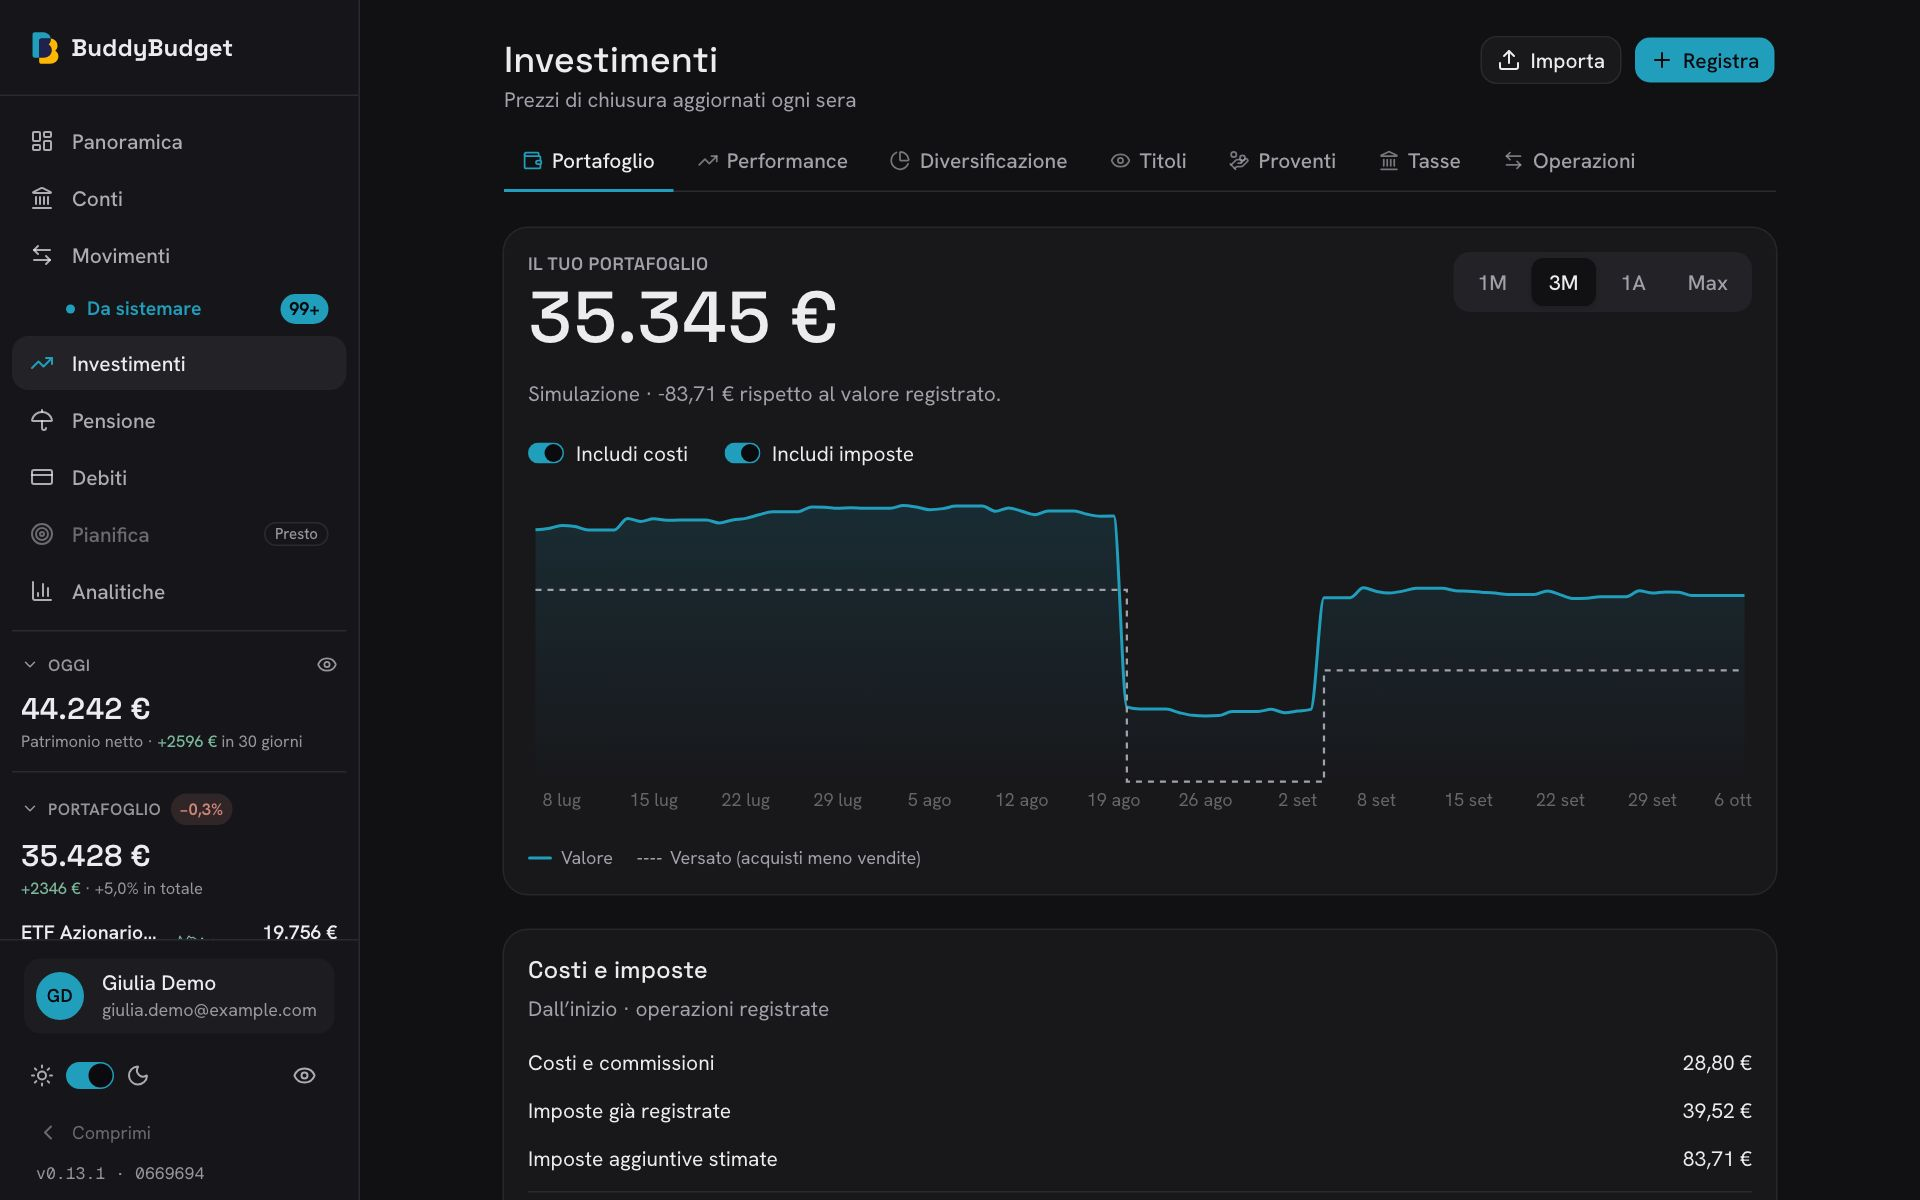
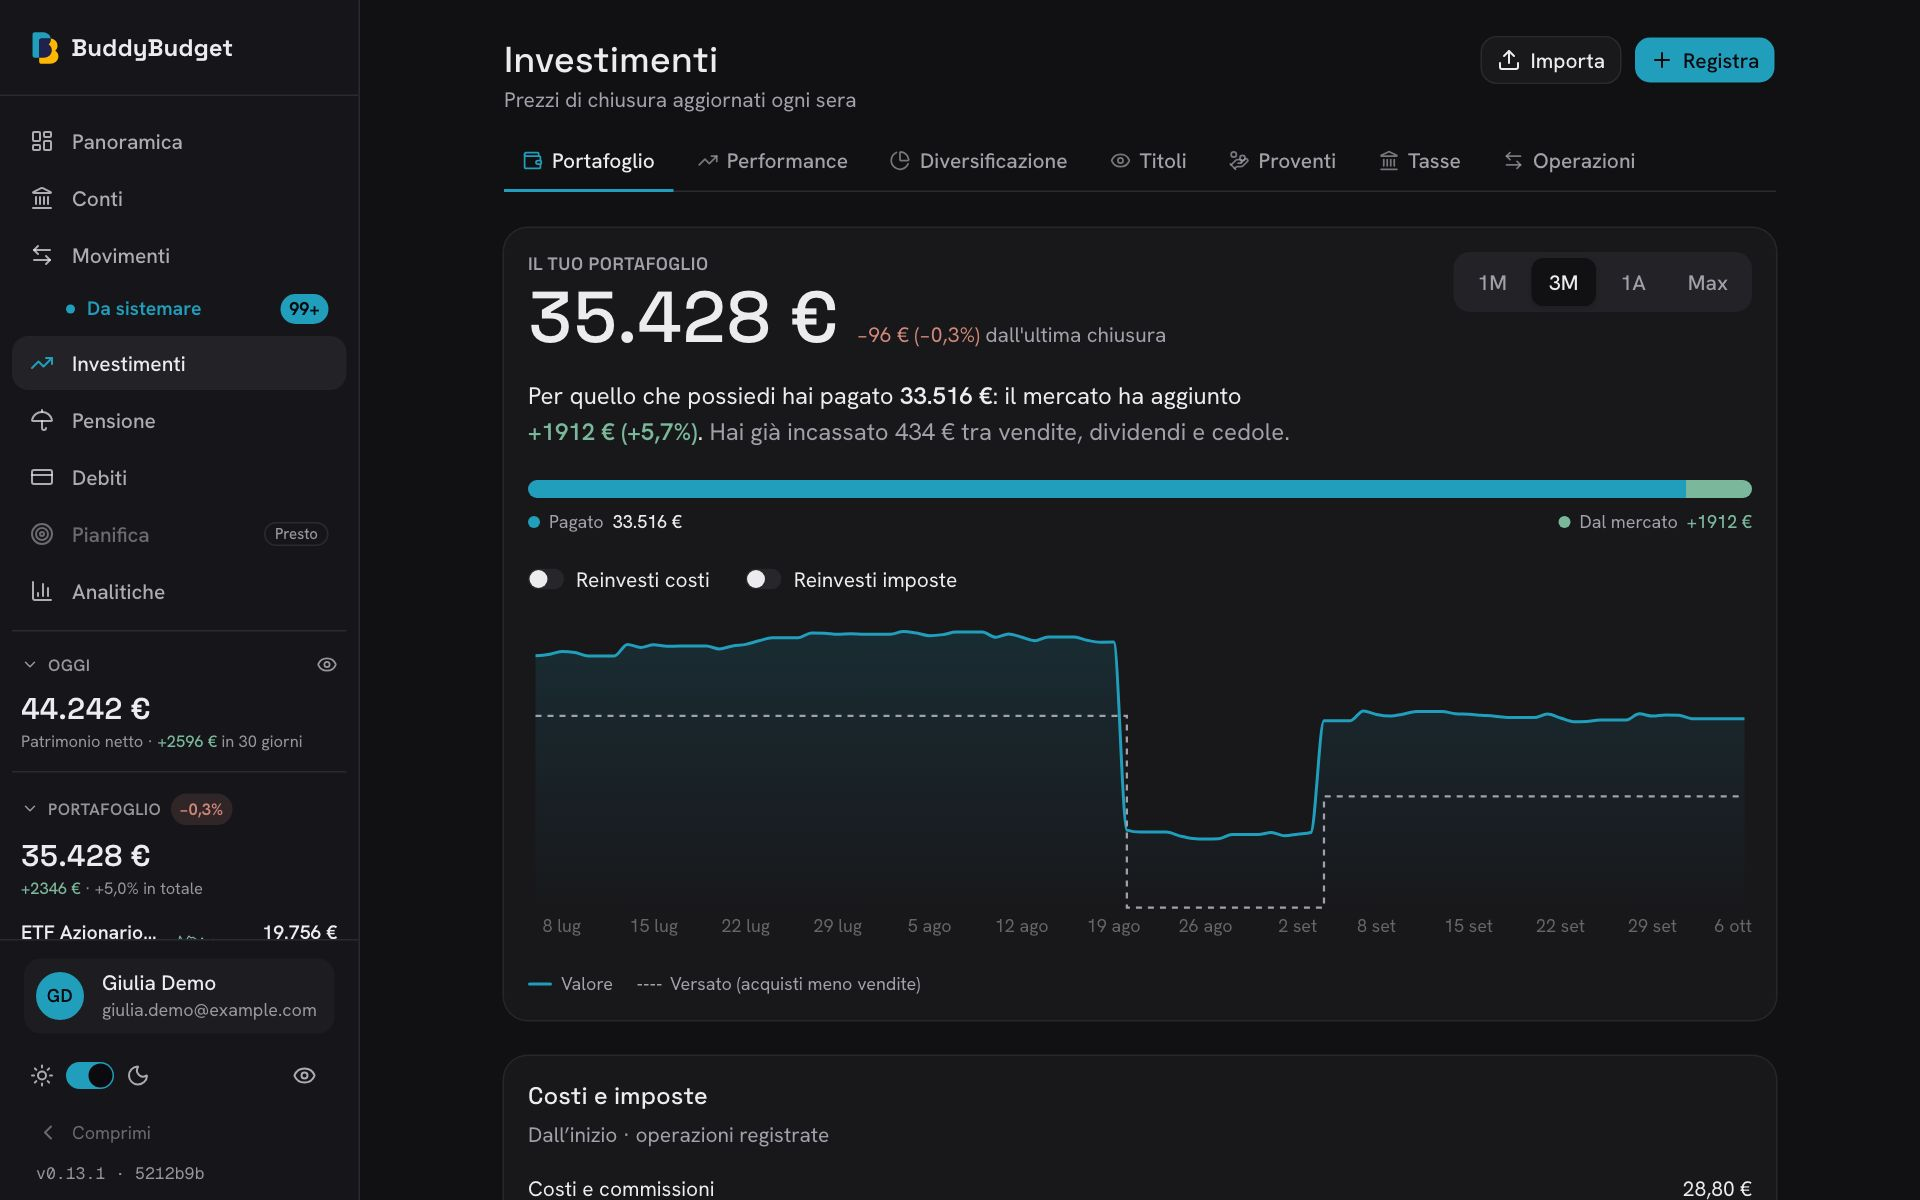
fix: add reinvested savings without reducing actual portfolio value

diff --git a/lib/investments/cost-impact.ts b/lib/investments/cost-impact.ts
@@ -41,7 +41,7 @@ export function computeCostImpact(params: ReturnInputs, unpriced: boolean, repor
   const base = toDateKey(addDays(parseDateOnly(first), -1));
   const points = computeDailyPortfolioValues({ ...params, transactions, fromKey: base, toKey: to });
   const returns = computeDailyReturns(points[0].value, toDailyFlows(points));
-  let savedFees = 0; let savedTaxes = 0; let estimatedTaxDrag = 0;
+  let savedFees = 0; let savedTaxes = 0; let savedEstimatedTaxes = 0;
   for (const day of returns) {
     // Without an invested portfolio there is no observed return: retain the saved amount as cash.
     const growth = 1 + (day.ret ?? 0);
@@ -49,9 +49,9 @@ export function computeCostImpact(params: ReturnInputs, unpriced: boolean, repor
     const paid = charges.get(day.date);
     savedFees = savedFees * growth + (paid?.fees ?? 0);
     savedTaxes = savedTaxes * growth + (paid?.taxes ?? 0);
-    estimatedTaxDrag = estimatedTaxDrag * growth + (paid?.estimatedTaxes ?? 0);
-    if (!Number.isFinite(estimatedTaxDrag) || !Number.isFinite(savedFees) || !Number.isFinite(savedTaxes)) return result;
-    result.additions[day.date] = { fees: savedFees, taxes: savedTaxes, estimatedTaxes: estimatedTaxDrag };
+    savedEstimatedTaxes = savedEstimatedTaxes * growth + (paid?.estimatedTaxes ?? 0);
+    if (!Number.isFinite(savedEstimatedTaxes) || !Number.isFinite(savedFees) || !Number.isFinite(savedTaxes)) return result;
+    result.additions[day.date] = { fees: savedFees, taxes: savedTaxes, estimatedTaxes: savedEstimatedTaxes };
   }
   result.available = true;
   return result;
@@ -59,9 +59,9 @@ export function computeCostImpact(params: ReturnInputs, unpriced: boolean, repor
 
 /** Apply independent cost/tax switches to the same observed series without mutating actual balances. */
 export function simulateCostExclusions(impact: CostImpact | undefined, series: PortfolioSeriesPoint[], value: number, includeFees: boolean, includeTaxes: boolean) {
-  const active = !!impact?.available && (!includeFees || !includeTaxes || impact.estimatedTaxes > 0);
+  const active = !!impact?.available && (!includeFees || !includeTaxes);
   if (!active) return { active: false, series, value, extra: 0 };
-  const addition = (day?: { fees: number; taxes: number; estimatedTaxes: number }) => (includeFees ? 0 : day?.fees ?? 0) + (includeTaxes ? -(day?.estimatedTaxes ?? 0) : day?.taxes ?? 0);
+  const addition = (day?: { fees: number; taxes: number; estimatedTaxes: number }) => (includeFees ? 0 : day?.fees ?? 0) + (includeTaxes ? 0 : (day?.taxes ?? 0) + (day?.estimatedTaxes ?? 0));
   const extra = addition(Object.values(impact.additions).at(-1));
   return { active: true, value: value + extra, extra,
     series: series.map((point) => ({ ...point, value: point.value + addition(impact.additions[point.date]) })) };

diff --git a/lib/investments/cost-impact.test.ts b/lib/investments/cost-impact.test.ts
@@ -66,14 +66,14 @@ it("saved money also follows portfolio losses rather than earning a fixed positi
   expect(result.additions["2026-02-01"].taxes).toBeCloseTo(4);
 });
 
-it("estimates 26% of sale profit after commissions and deducts only unrecorded tax in the baseline", () => {
+it("uses tax report estimates as additional reinvested savings without reducing the actual baseline", () => {
   const params = inputs([tx({}), tx({ id: "sale", type: "vendita", date: "2026-02-01", price: "110", fees: "2" })]);
   const impact = computeCostImpact(params, false);
   // 1100 proceeds - 2 sale fees - 1010 acquisition cost = 88 gain.
   expect(impact.estimatedTaxes).toBeCloseTo(22.88);
   expect(impact.taxes).toBeCloseTo(22.88);
-  expect(simulateCostExclusions(impact, [], 1000, true, true).value).toBeCloseTo(977.12);
-  expect(simulateCostExclusions(impact, [], 1000, true, false).value).toBe(1000);
+  expect(simulateCostExclusions(impact, [], 1000, true, true).value).toBe(1000);
+  expect(simulateCostExclusions(impact, [], 1000, true, false).value).toBeCloseTo(1022.88);
 });
 it("does not double count tax already withheld and tops up only the missing amount", () => {
   const sale = tx({ id: "sale", type: "vendita", date: "2026-02-01", price: "110", fees: "2", taxes: "22.88" });
@@ -90,4 +90,18 @@ it("does not tax losses or unsold gains and uses the cost basis of partial sales
   expect(computeCostImpact(inputs([tx({}), loss]), false).estimatedTaxes).toBe(0);
   const half = { ...loss, price: "110", quantity: "5", fees: "1" };
   expect(computeCostImpact(inputs([tx({}), half]), false).estimatedTaxes).toBeCloseTo(11.44);
+});
+
+it("adds both paid and estimated taxes once, grows them and never subtracts estimates from the actual value", () => {
+  const impact = { fees: 10, taxes: 30, estimatedTaxes: 20, available: true, additions: {
+    "2026-01-01": { fees: 10, taxes: 10, estimatedTaxes: 20 },
+    "2026-02-01": { fees: 11, taxes: 11, estimatedTaxes: 22 },
+  } };
+  const series = [{ date: "2026-02-01", label: "Feb", value: 1100, bought: 1000, invested: 1000, income: 0 }];
+  expect(simulateCostExclusions(impact, series, 1100, true, true)).toMatchObject({ active: false, value: 1100, extra: 0 });
+  expect(simulateCostExclusions(impact, series, 1100, false, true).value).toBe(1111);
+  expect(simulateCostExclusions(impact, series, 1100, true, false).value).toBe(1133);
+  const both = simulateCostExclusions(impact, series, 1100, false, false);
+  expect(both.value).toBe(1144);
+  expect(both.series[0].value).toBe(1144);
 });

diff --git a/landing/content/catalog.generated.ts b/landing/content/catalog.generated.ts
@@ -51,7 +51,7 @@ export const FEATURES: readonly Feature[] = [
 
   f("etf-azioni-btp-fondi-e-crypto", "Investimenti", "ETF, azioni, BTP, fondi e crypto", "Prezzi di fine giornata da fonti gratuite con riserva automatica, cambi della BCE.", "live", "/investimenti"),
   f("operazioni-e-import-csv", "Investimenti", "Operazioni e import CSV", "Registra acquisti e vendite, importa da un file: Interactive Brokers e DEGIRO nello stesso portafoglio (cassa riconciliata, aggiornamento dei periodi sovrapposti e gestione degli import per broker in un menu espandibile nella scheda Operazioni), Yahoo Finance o un altro CSV.", "live"),
-  f("rendimenti-veri", "Investimenti", "Rendimenti veri", "Del portafoglio e dei tuoi soldi, al netto dell'inflazione. Interruttori indipendenti nel grafico per simulare costi e imposte reinvestiti; card di dettaglio con le stesse stime della scheda Tasse, incluse le compensazioni delle minusvalenze.", "live"),
+  f("rendimenti-veri", "Investimenti", "Rendimenti veri", "Del portafoglio e dei tuoi soldi, al netto dell'inflazione. Attiva «Reinvesti costi» e «Reinvesti imposte» nel grafico per aggiungere al valore reale il risparmio rivalutato al rendimento del portafoglio; card di dettaglio con le stesse stime della scheda Tasse, incluse le compensazioni delle minusvalenze.", "live"),
   f("confronto-con-un-indice", "Investimenti", "Confronto con un indice", "«Con gli stessi versamenti oggi avresti X invece di Y».", "live"),
   f("rischio", "Investimenti", "Rischio", "Un livello di rischio chiaro (da basso a molto alto), poi quanto oscilla, la perdita peggiore, se il rischio è stato ripagato e quanto segue l'indice.", "live"),
   f("diversificazione", "Investimenti", "Diversificazione", "Per area e settore guardando dentro gli ETF.", "live"),

diff --git a/lib/features/catalog.ts b/lib/features/catalog.ts
@@ -50,7 +50,7 @@ export const FEATURES: readonly Feature[] = [
 
   f("etf-azioni-btp-fondi-e-crypto", "Investimenti", "ETF, azioni, BTP, fondi e crypto", "Prezzi di fine giornata da fonti gratuite con riserva automatica, cambi della BCE.", "live", "/investimenti"),
   f("operazioni-e-import-csv", "Investimenti", "Operazioni e import CSV", "Registra acquisti e vendite, importa da un file: Interactive Brokers e DEGIRO nello stesso portafoglio (cassa riconciliata, aggiornamento dei periodi sovrapposti e gestione degli import per broker in un menu espandibile nella scheda Operazioni), Yahoo Finance o un altro CSV.", "live"),
-  f("rendimenti-veri", "Investimenti", "Rendimenti veri", "Del portafoglio e dei tuoi soldi, al netto dell'inflazione. Interruttori indipendenti nel grafico per simulare costi e imposte reinvestiti; card di dettaglio con le stesse stime della scheda Tasse, incluse le compensazioni delle minusvalenze.", "live"),
+  f("rendimenti-veri", "Investimenti", "Rendimenti veri", "Del portafoglio e dei tuoi soldi, al netto dell'inflazione. Attiva «Reinvesti costi» e «Reinvesti imposte» nel grafico per aggiungere al valore reale il risparmio rivalutato al rendimento del portafoglio; card di dettaglio con le stesse stime della scheda Tasse, incluse le compensazioni delle minusvalenze.", "live"),
   f("confronto-con-un-indice", "Investimenti", "Confronto con un indice", "«Con gli stessi versamenti oggi avresti X invece di Y».", "live"),
   f("rischio", "Investimenti", "Rischio", "Un livello di rischio chiaro (da basso a molto alto), poi quanto oscilla, la perdita peggiore, se il rischio è stato ripagato e quanto segue l'indice.", "live"),
   f("diversificazione", "Investimenti", "Diversificazione", "Per area e settore guardando dentro gli ETF.", "live"),

diff --git a/components/domain/investments/portfolio-hero-card.tsx b/components/domain/investments/portfolio-hero-card.tsx
@@ -117,8 +117,8 @@ export function PortfolioHeroCard({ costImpact, includeFees = true, includeTaxes
         </> : null}
         {costImpact ? (
           <div className="flex flex-wrap items-center gap-x-6 gap-y-3 text-sm">
-            <label className="flex cursor-pointer items-center gap-2"><Switch size="sm" checked={includeFees} onCheckedChange={onIncludeFeesChange} disabled={!costImpact.available} />Includi costi</label>
-            <label className="flex cursor-pointer items-center gap-2"><Switch size="sm" checked={includeTaxes} onCheckedChange={onIncludeTaxesChange} disabled={!costImpact.available} />Includi imposte</label>
+            <label className="flex cursor-pointer items-center gap-2"><Switch size="sm" checked={!includeFees} onCheckedChange={(checked) => onIncludeFeesChange?.(!checked)} disabled={!costImpact.available} />Reinvesti costi</label>
+            <label className="flex cursor-pointer items-center gap-2"><Switch size="sm" checked={!includeTaxes} onCheckedChange={(checked) => onIncludeTaxesChange?.(!checked)} disabled={!costImpact.available} />Reinvesti imposte</label>
           </div>
         ) : null}
         {hasHistory ? (

diff --git a/CLAUDE.md b/CLAUDE.md
@@ -186,7 +186,7 @@ Una schermata o feature nuova non è "completata" finché il catalogo non è agg
 
 ## Stato del progetto
 
-**Impatto costi e imposte (2026-10-06)**: due interruttori indipendenti accanto al grafico e card di dettaglio nel Portafoglio; imposte dal medesimo calcolo della scheda Tasse, con regime, aliquote e compensazioni; esclusione simula risparmi reinvestiti dal giorno di addebito al rendimento giornaliero osservato, aggiornando totale e grafico. Perimetro: oneri registrati sulle operazioni e imposte sulle vendite stimate dalla scheda Tasse; oneri autonomi del conto, TER e bollo esclusi. Branch locale `codex/portfolio-cost-impact`.
+**Impatto costi e imposte (2026-10-06)**: due interruttori indipendenti accanto al grafico e card di dettaglio nel Portafoglio; imposte dal medesimo calcolo della scheda Tasse, con regime, aliquote e compensazioni; i toggle «Reinvesti costi» e «Reinvesti imposte», inizialmente spenti, aggiungono al valore reale i risparmi reinvestiti dal giorno di addebito al rendimento giornaliero osservato, aggiornando totale e grafico. Perimetro: oneri registrati sulle operazioni e imposte sulle vendite stimate dalla scheda Tasse; oneri autonomi del conto, TER e bollo esclusi. Branch locale `codex/portfolio-cost-impact`.
 
 **Gestione importazioni (2026-10-06)**: scheda Rendiconti rimossa; Gestisci importazioni ora in Operazioni, accessibile anche senza transazioni. Vecchi link reindirizzati. Nessuna modifica ai dati importati.
 
@@ -421,3 +421,13 @@ rtk init --global       # Add RTK to ~/.claude/CLAUDE.md
 
 Overall average: **60-90% token reduction** on common development operations.
 <!-- /rtk-instructions -->
+
+<!-- BEGIN:nextjs-agent-rules -->
+
+# This is NOT the Next.js you know
+
+This version has breaking changes — APIs, conventions, and file structure may all differ from your training data. Read the relevant guide in `node_modules/next/dist/docs/` (resolved from this file's directory; in monorepos the `next` package may not be visible from the repo root) before writing any code. Heed deprecation notices.
+
+This block is written and re-added by `next dev` — verify at `node_modules/next/dist/server/lib/generate-agent-files.js`. Removing it from a diff only re-creates the uncommitted change; committing it with your work keeps the tree clean.
+
+<!-- END:nextjs-agent-rules -->

diff --git a/docs/decisioni/2026-10-06-impatto-costi-imposte.md b/docs/decisioni/2026-10-06-impatto-costi-imposte.md
@@ -4,6 +4,6 @@ Data: 2026-10-06
 
 Interruttori indipendenti accanto al grafico e card distinta per costi registrati, imposte registrate, stima aggiuntiva e totale, con link alla scheda Tasse.
 `investmentTaxReport` è condivisa da Portafoglio e `buildTaxView`: stessi dati, aliquote, regime e compensazioni delle minusvalenze; nessun secondo motore fiscale. Il residuo annuale della stima dopo le ritenute registrate evita il doppio conteggio.
-La simulazione reinveste gli oneri registrati esclusi dal giorno di addebito ai rendimenti giornalieri osservati. Le imposte stimate aggiuntive vengono invece sottratte quando il toggle imposte è attivo. Nell’amministrato sono distribuite sulle vendite secondo il report; per dichiarativo/crypto si collocano a fine anno (oggi per l’anno aperto), senza rappresentare la data effettiva del versamento fiscale.
+La simulazione reinveste gli oneri registrati esclusi dal giorno di addebito ai rendimenti giornalieri osservati. Il valore effettivo è sempre la base invariata: attivando «Reinvesti costi» o «Reinvesti imposte» si aggiunge il relativo capitale rivalutato, incluse le stime fiscali condivise, senza sottrarre stime al valore reale. Nell’amministrato sono distribuite sulle vendite secondo il report; per dichiarativo/crypto si collocano a fine anno (oggi per l’anno aperto), senza rappresentare la data effettiva del versamento fiscale.
 Il Portafoglio carica tutti i prezzi per mantenere identico il valore simulato cambiando periodo. Senza portafoglio investito il risparmio resta liquido. Mancando valorizzazione la simulazione è disabilitata; nessuna modifica ai saldi salvati.
 Oneri autonomi del broker e TER non registrati esclusi; bollo separato nella tab Tasse ed esplicitamente escluso qui. Test di parità fra le viste, perdite, minusvalenze pregresse, aliquote personalizzate, reinvestimento e quattro combinazioni degli interruttori.
